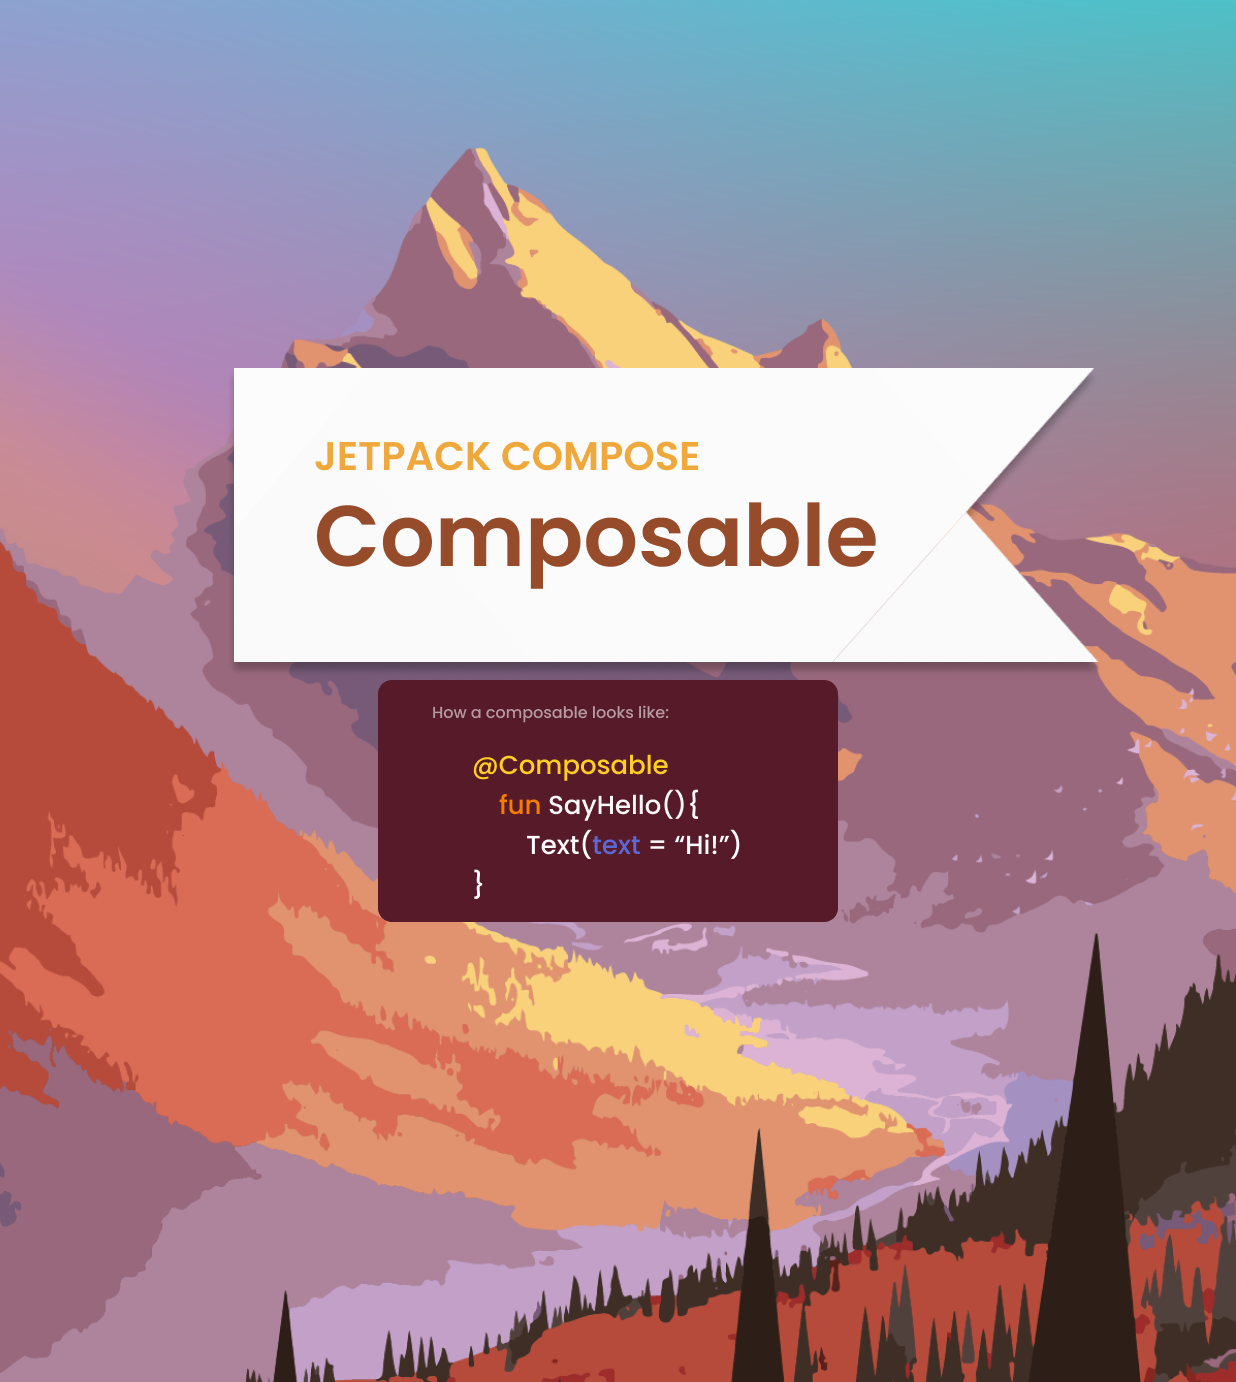
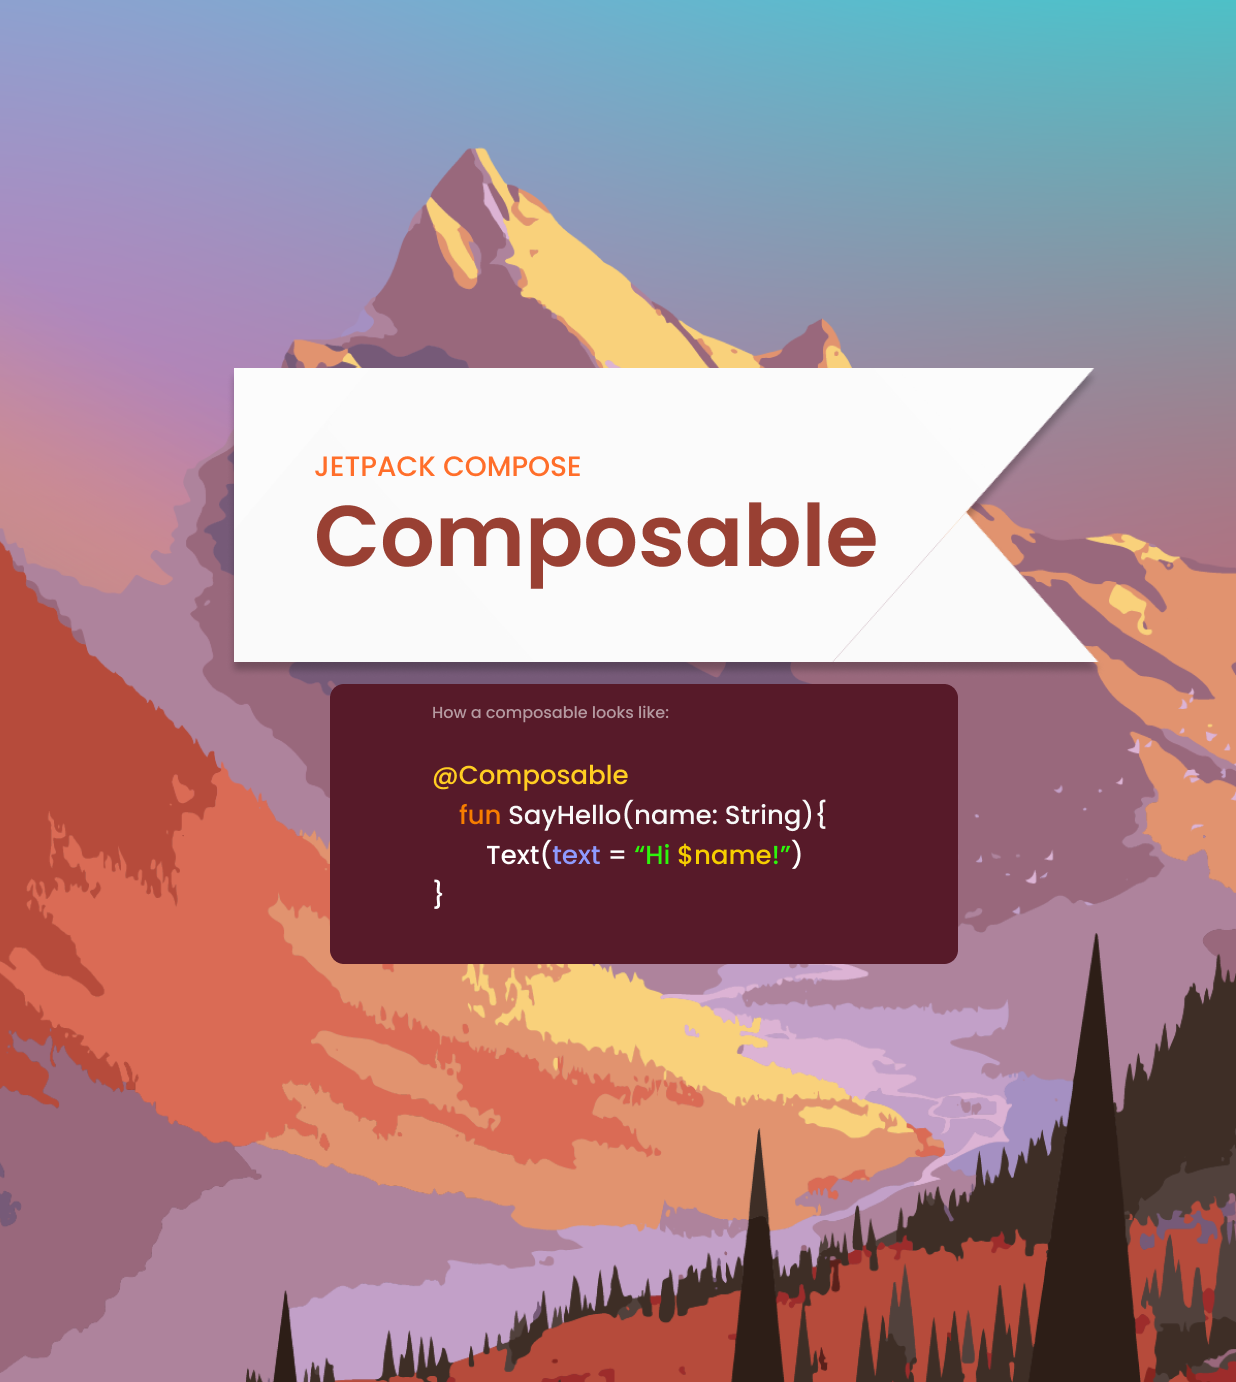
jetpack images 11/10

Changed region(s): [[0.246, 0.4978, 0.7994, 0.7156], [0.3382, 0.5289, 0.6456, 0.6223], [0.246, 0.3111, 0.5841, 0.3423]]

diff --git a/src/main/kotlin/com/example/repository/JetpackRepositoryImpl.kt b/src/main/kotlin/com/example/repository/JetpackRepositoryImpl.kt
@@ -23,7 +23,10 @@ class JetpackRepositoryImpl : JetpackRepository {
             level = "Beginner",
             timeToLearn = "Fast",
             tags = listOf(
-                "Composable functions are the building blocks used to create user interfaces for Android apps when developing with Jetpack Compose. In the ComposeDemo project created earlier in the book, we made use of both the built-in compose functions provided with Compose and also created our own functions."
+                "A composable function it's same as any function in programming. But we need to annotate with @Composable annotation.",
+                "-The function takes in data. Composable functions can accept parameters which allow the app logic to describe the UI. In this case, our widget accepts a String so it can greet the user by name.",
+                "-This function is fast, idempotent, and free of side-effects.",
+                "-The function displays text in the UI. It does so by calling the Text() composable function, which actually creates the text UI element. Composable functions emit UI hierarchy by calling other composable functions."
 
             ),
         ),
@@ -31,27 +34,31 @@ class JetpackRepositoryImpl : JetpackRepository {
             id = 2,
             name = "Lazy Column",
             image = "/images/lazycolumn.png",
-            about = "Kotlin uses two different keywords to declare variables ( val and var). Use val for a variable whose value never changes. You can't reassign a value to a variable that was declared using val. And you can use var for a variable whose value can change.",
+            about = "A LazyColumn is a vertically scrolling list that only composes and lays out the currently visible items. It’s similar to a Recyclerview in the classic Android View system.",
             rating = 0.5,
             level = "Beginner",
             timeToLearn = "Fast",
             tags = listOf(
-                "Composable functions are the building blocks used to create user interfaces for Android apps when developing with Jetpack Compose. In the ComposeDemo project created earlier in the book, we made use of both the built-in compose functions provided with Compose and also created our own functions.",
+                "For single composable use item() ",
+                "For list of composable use items(count: Int) or items(items: List<T>)",
+                "For Android developers: LazyColumn  (Vertical RecyclerView) and LazyRow (Horizontal RecyclerView)"
 
 
             ),
         ),
         Jetpack(
             id = 3,
-            name = "13123",
-            image = "/images/variables.png",
-            about = "Kotlin uses two different keywords to declare variables ( val and var). Use val for a variable whose value never changes. You can't reassign a value to a variable that was declared using val. And you can use var for a variable whose value can change.",
+            name = "Lazy Row",
+            image = "/images/lazyrow.png",
+            about = "A LazyRow is a horizontal scrolling list that only composes and lays out the currently visible items. It’s similar to a Recyclerview in the classic Android View system.",
             rating = 0.5,
             level = "Beginner",
             timeToLearn = "Fast",
             tags = listOf(
-                "Int is a type that represents an integer, one of the many numerical types that can be represented in Kotlin. Similar to other languages, you can also use Byte, Short, Long, Float, and Double depending on your numerical data",
-                "Some values are not meant to be changed, though. Consider a String called languageName. If you want to ensure that languageName always holds a value of Kotlin, then you can declare languageName using the val keyword"
+                "For Android developers: LazyRow (Horizontal RecyclerView)",
+                "For list of composable use items(count: Int) or items(items: List<T>",
+                "For single composable use item() "
+
             ),
         )
 
@@ -61,41 +68,46 @@ class JetpackRepositoryImpl : JetpackRepository {
     override val page2 = listOf(
         Jetpack(
             id = 4,
-            name = "diego",
-            image = "/images/variables.png",
-            about = "Kotlin uses two different keywords to declare variables ( val and var). Use val for a variable whose value never changes. You can't reassign a value to a variable that was declared using val. And you can use var for a variable whose value can change.",
+            name = "Lifecycle of composables",
+            image = "/images/lifecycle.png",
+            about = "Composition describes the UI of your app and is produced by running composables. A Composition is a tree-structure of the composables that describe your UI.",
             rating = 0.5,
             level = "Beginner",
-            timeToLearn = "Fast",
+            timeToLearn = "Medium",
             tags = listOf(
-                "Int is a type that represents an integer, one of the many numerical types that can be represented in Kotlin. Similar to other languages, you can also use Byte, Short, Long, Float, and Double depending on your numerical data",
-                "Some values are not meant to be changed, though. Consider a String called languageName. If you want to ensure that languageName always holds a value of Kotlin, then you can declare languageName using the val keyword"
-            ),
+                "When Jetpack Compose runs your composables for the first time, during initial composition, it will keep track of the composables that you call to describe your UI in a Composition.",
+                "Then, when the state of your app changes, Jetpack Compose schedules a recomposition. Recomposition is when Jetpack Compose re-executes the composables that may have changed in response to state changes, and then updates the Composition to reflect any changes.",
+                "A Composition can only be produced by an initial composition and updated by recomposition. The only way to modify a Composition is through recomposition.",
+
+                ),
         ),
         Jetpack(
             id = 5,
-            name = "japon",
-            image = "/images/variables.png",
-            about = "Kotlin uses two different keywords to declare variables ( val and var). Use val for a variable whose value never changes. You can't reassign a value to a variable that was declared using val. And you can use var for a variable whose value can change.",
+            name = "Preview",
+            image = "/images/preview.png",
+            about = "In Jetpack Compose we can see the preview of our code in Android studio. It allows us to see the output without running our app.",
             rating = 0.5,
             level = "Beginner",
             timeToLearn = "Fast",
             tags = listOf(
-                "Int is a type that represents an integer, one of the many numerical types that can be represented in Kotlin. Similar to other languages, you can also use Byte, Short, Long, Float, and Double depending on your numerical data",
-                "Some values are not meant to be changed, though. Consider a String called languageName. If you want to ensure that languageName always holds a value of Kotlin, then you can declare languageName using the val keyword"
+                "How to add a preview?",
+                " You need to add @Preview() annotation before the composable function. After adding this annotation we are able to see the preview of our UI.",
+                "You can add multiple previews. Just add moreanother @Preview annotation in others compasables your composable."
             ),
         ),
         Jetpack(
             id = 6,
-            name = "rusia",
-            image = "/images/variables.png",
+            name = "LaunchedEffect",
+            image = "/images/launcheffect.png",
             about = "Kotlin uses two different keywords to declare variables ( val and var). Use val for a variable whose value never changes. You can't reassign a value to a variable that was declared using val. And you can use var for a variable whose value can change.",
             rating = 0.5,
-            level = "Beginner",
-            timeToLearn = "Fast",
+            level = "Intermediate",
+            timeToLearn = "Medium",
             tags = listOf(
-                "Int is a type that represents an integer, one of the many numerical types that can be represented in Kotlin. Similar to other languages, you can also use Byte, Short, Long, Float, and Double depending on your numerical data",
-                "Some values are not meant to be changed, though. Consider a String called languageName. If you want to ensure that languageName always holds a value of Kotlin, then you can declare languageName using the val keyword"
+                "LaunchedEffect will cancel and re-launch if scaffoldState.snackbarHostState changes.",
+                "To call suspend functions safely from inside a composable, use the LaunchedEffect composable. When LaunchedEffect enters the Composition, it launches a coroutine with the block of code passed as a parameter.",
+                "The coroutine will be cancelled if LaunchedEffect leaves the composition.",
+                "If LaunchedEffect is recomposed with different keys, the existing coroutine will be cancelled and the new suspend function will be launched in a new coroutine.",
             ),
         )
 
@@ -105,41 +117,60 @@ class JetpackRepositoryImpl : JetpackRepository {
     override val page3 = listOf(
         Jetpack(
             id = 7,
-            name = "europa",
-            image = "/images/variables.png",
+            name = "State",
+            image = "/images/state.png",
             about = "Kotlin uses two different keywords to declare variables ( val and var). Use val for a variable whose value never changes. You can't reassign a value to a variable that was declared using val. And you can use var for a variable whose value can change.",
             rating = 0.5,
-            level = "Beginner",
-            timeToLearn = "Fast",
+            level = "Intermediate",
+            timeToLearn = "Medium",
             tags = listOf(
-                "Int is a type that represents an integer, one of the many numerical types that can be represented in Kotlin. Similar to other languages, you can also use Byte, Short, Long, Float, and Double depending on your numerical data",
-                "Some values are not meant to be changed, though. Consider a String called languageName. If you want to ensure that languageName always holds a value of Kotlin, then you can declare languageName using the val keyword"
+                "An app's state is any value that can change over time.",
+                "-All Android apps display state to the user. A few examples of state in Android apps are:",
+                "  The most recent messages received in a chat app.",
+                "  The user's profile photo.",
+                "  The scroll position in a list of items.",
+                "-Key idea: State determines what is shown in the UI at any particular time."
             ),
         ),
         Jetpack(
             id = 8,
-            name = "2023",
-            image = "/images/variables.png",
-            about = "Kotlin uses two different keywords to declare variables ( val and var). Use val for a variable whose value never changes. You can't reassign a value to a variable that was declared using val. And you can use var for a variable whose value can change.",
+            name = "Architectural layering",
+            image = "/images/architectural.png",
+            about = "Jetpack Compose is not a single monolithic project; it is created from a number of modules which are assembled together to form a complete stack.",
             rating = 0.5,
-            level = "Beginner",
-            timeToLearn = "Fast",
+            level = "Advanced",
+            timeToLearn = "Long",
             tags = listOf(
-                "Int is a type that represents an integer, one of the many numerical types that can be represented in Kotlin. Similar to other languages, you can also use Byte, Short, Long, Float, and Double depending on your numerical data",
-                "Some values are not meant to be changed, though. Consider a String called languageName. If you want to ensure that languageName always holds a value of Kotlin, then you can declare languageName using the val keyword"
+                "Understanding the different modules that make up Jetpack Compose enables you to:",
+                " - Use the appropriate level of abstraction to build your app or library",
+                " - Understand when you can ‘drop down’ to a lower level for more control or customization",
+                " - Minimize your dependencies",
+                "-----------",
+                "Runtime",
+                "This module provides the fundamentals of the Compose runtime such as remember, mutableStateOf, the @Composable annotation and SideEffect. You might consider building directly upon this layer if you only need Compose’s tree management abilities, not its UI.",
+                "-----------",
+                "UI",
+                "The UI layer is made up of multiple modules ( ui-text, ui-graphics, ui-tooling, etc.). These modules implement the fundamentals of the UI toolkit, such as LayoutNode, Modifier, input handlers, custom layouts, and drawing. You might consider building upon this layer if you only need fundamental concepts of a UI toolkit.",
+                "----------",
+                "Foundation",
+                "This module provides design system agnostic building blocks for Compose UI, like Row and Column, LazyColumn, recognition of particular gestures, etc. You might consider building upon the foundation layer to create your own design system.",
+                "----------",
+                "Material",
+                "This module provides an implementation of the Material Design system for Compose UI, providing a theming system, styled components, ripple indications, icons. Build upon this layer when using Material Design in your app."
+
             ),
         ),
         Jetpack(
             id = 9,
-            name = "estonia",
-            image = "/images/variables.png",
-            about = "Kotlin uses two different keywords to declare variables ( val and var). Use val for a variable whose value never changes. You can't reassign a value to a variable that was declared using val. And you can use var for a variable whose value can change.",
+            name = "ViewModel",
+            image = "/images/viewmodel.png",
+            about = "The ViewModel class is a business logic or screen level state holder. It exposes state to the UI and encapsulates related business logic.",
             rating = 0.5,
-            level = "Beginner",
-            timeToLearn = "Fast",
+            level = "Intermediate",
+            timeToLearn = "Medium",
             tags = listOf(
-                "Int is a type that represents an integer, one of the many numerical types that can be represented in Kotlin. Similar to other languages, you can also use Byte, Short, Long, Float, and Double depending on your numerical data",
-                "Some values are not meant to be changed, though. Consider a String called languageName. If you want to ensure that languageName always holds a value of Kotlin, then you can declare languageName using the val keyword"
+                "Its principal advantage is that it caches state and persists it through configuration changes.",
+                "This means that your UI doesn’t have to fetch data again when navigating between activities, or following configuration changes, such as when rotating the screen."
             ),
         )
 
